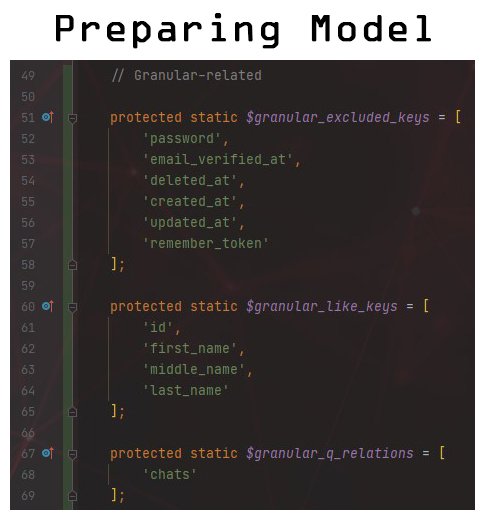
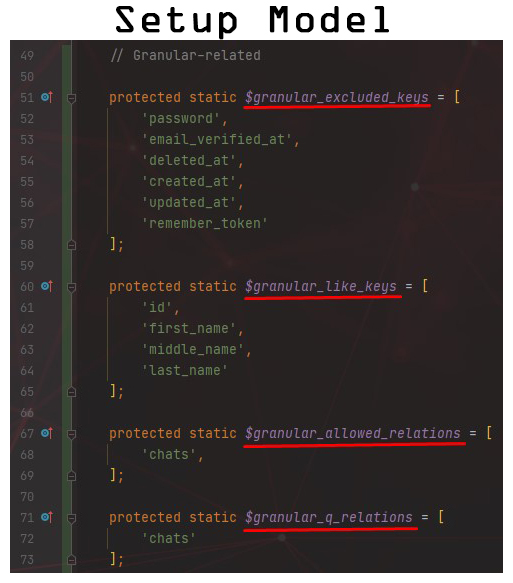
Completed basic goals of Granular Search

diff --git a/src/Traits/GranularSearchableTrait.php b/src/Traits/GranularSearchableTrait.php
@@ -29,6 +29,7 @@ trait GranularSearchableTrait
 
     protected static $granular_excluded_keys = [];
     protected static $granular_like_keys = [];
+    protected static $granular_allowed_relations = [];
     protected static $granular_q_relations = [];
     protected static $request;
 
@@ -66,10 +67,12 @@ trait GranularSearchableTrait
                 $q->granularSearch(static::$request, $prepend_key);
             });
         }
-        else{
+        else if(in_array($relation_name, static::$granular_allowed_relations, true) && static::requestArrayHas(static::$request, $prepend_key . '_', false)){
             return $query->whereHas($relation_name, function ($q) use ($prepend_key) {
                 $q->granularSearch(static::$request, $prepend_key, TRUE);
             });
+        }else{
+            return $query;
         }
     }
 
@@ -83,7 +86,7 @@ trait GranularSearchableTrait
 
     public function scopeOfRelationsViaRequest(Builder $query, ?array $relations = []): Builder
     {
-        $relations = empty($relations) ? static::$granular_q_relations : $relations;
+        $relations = empty($relations) ? static::$granular_allowed_relations : $relations;
         foreach ($relations as $relation)
         {
             $query->ofRelationViaRequest($relation, null);

diff --git a/readme.md b/readme.md
@@ -47,9 +47,12 @@ Once extended, you should set up these protected static fields.
 protected static $granular_excluded_keys = [];
 // Model fields to use LIKE instead instead of equal
 protected static $granular_like_keys = [];
-// Relations to include on 'q' search
+// Relations to consider for filtering/searching
+protected static $granular_allowed_relations = [];
+// Relations to include on 'q' search (must be a subset of allowed relations array)
 protected static $granular_q_relations = [];
 ```
+
 ![](images/abstract_protected.jpg)
 
 #### Tinker Examples
